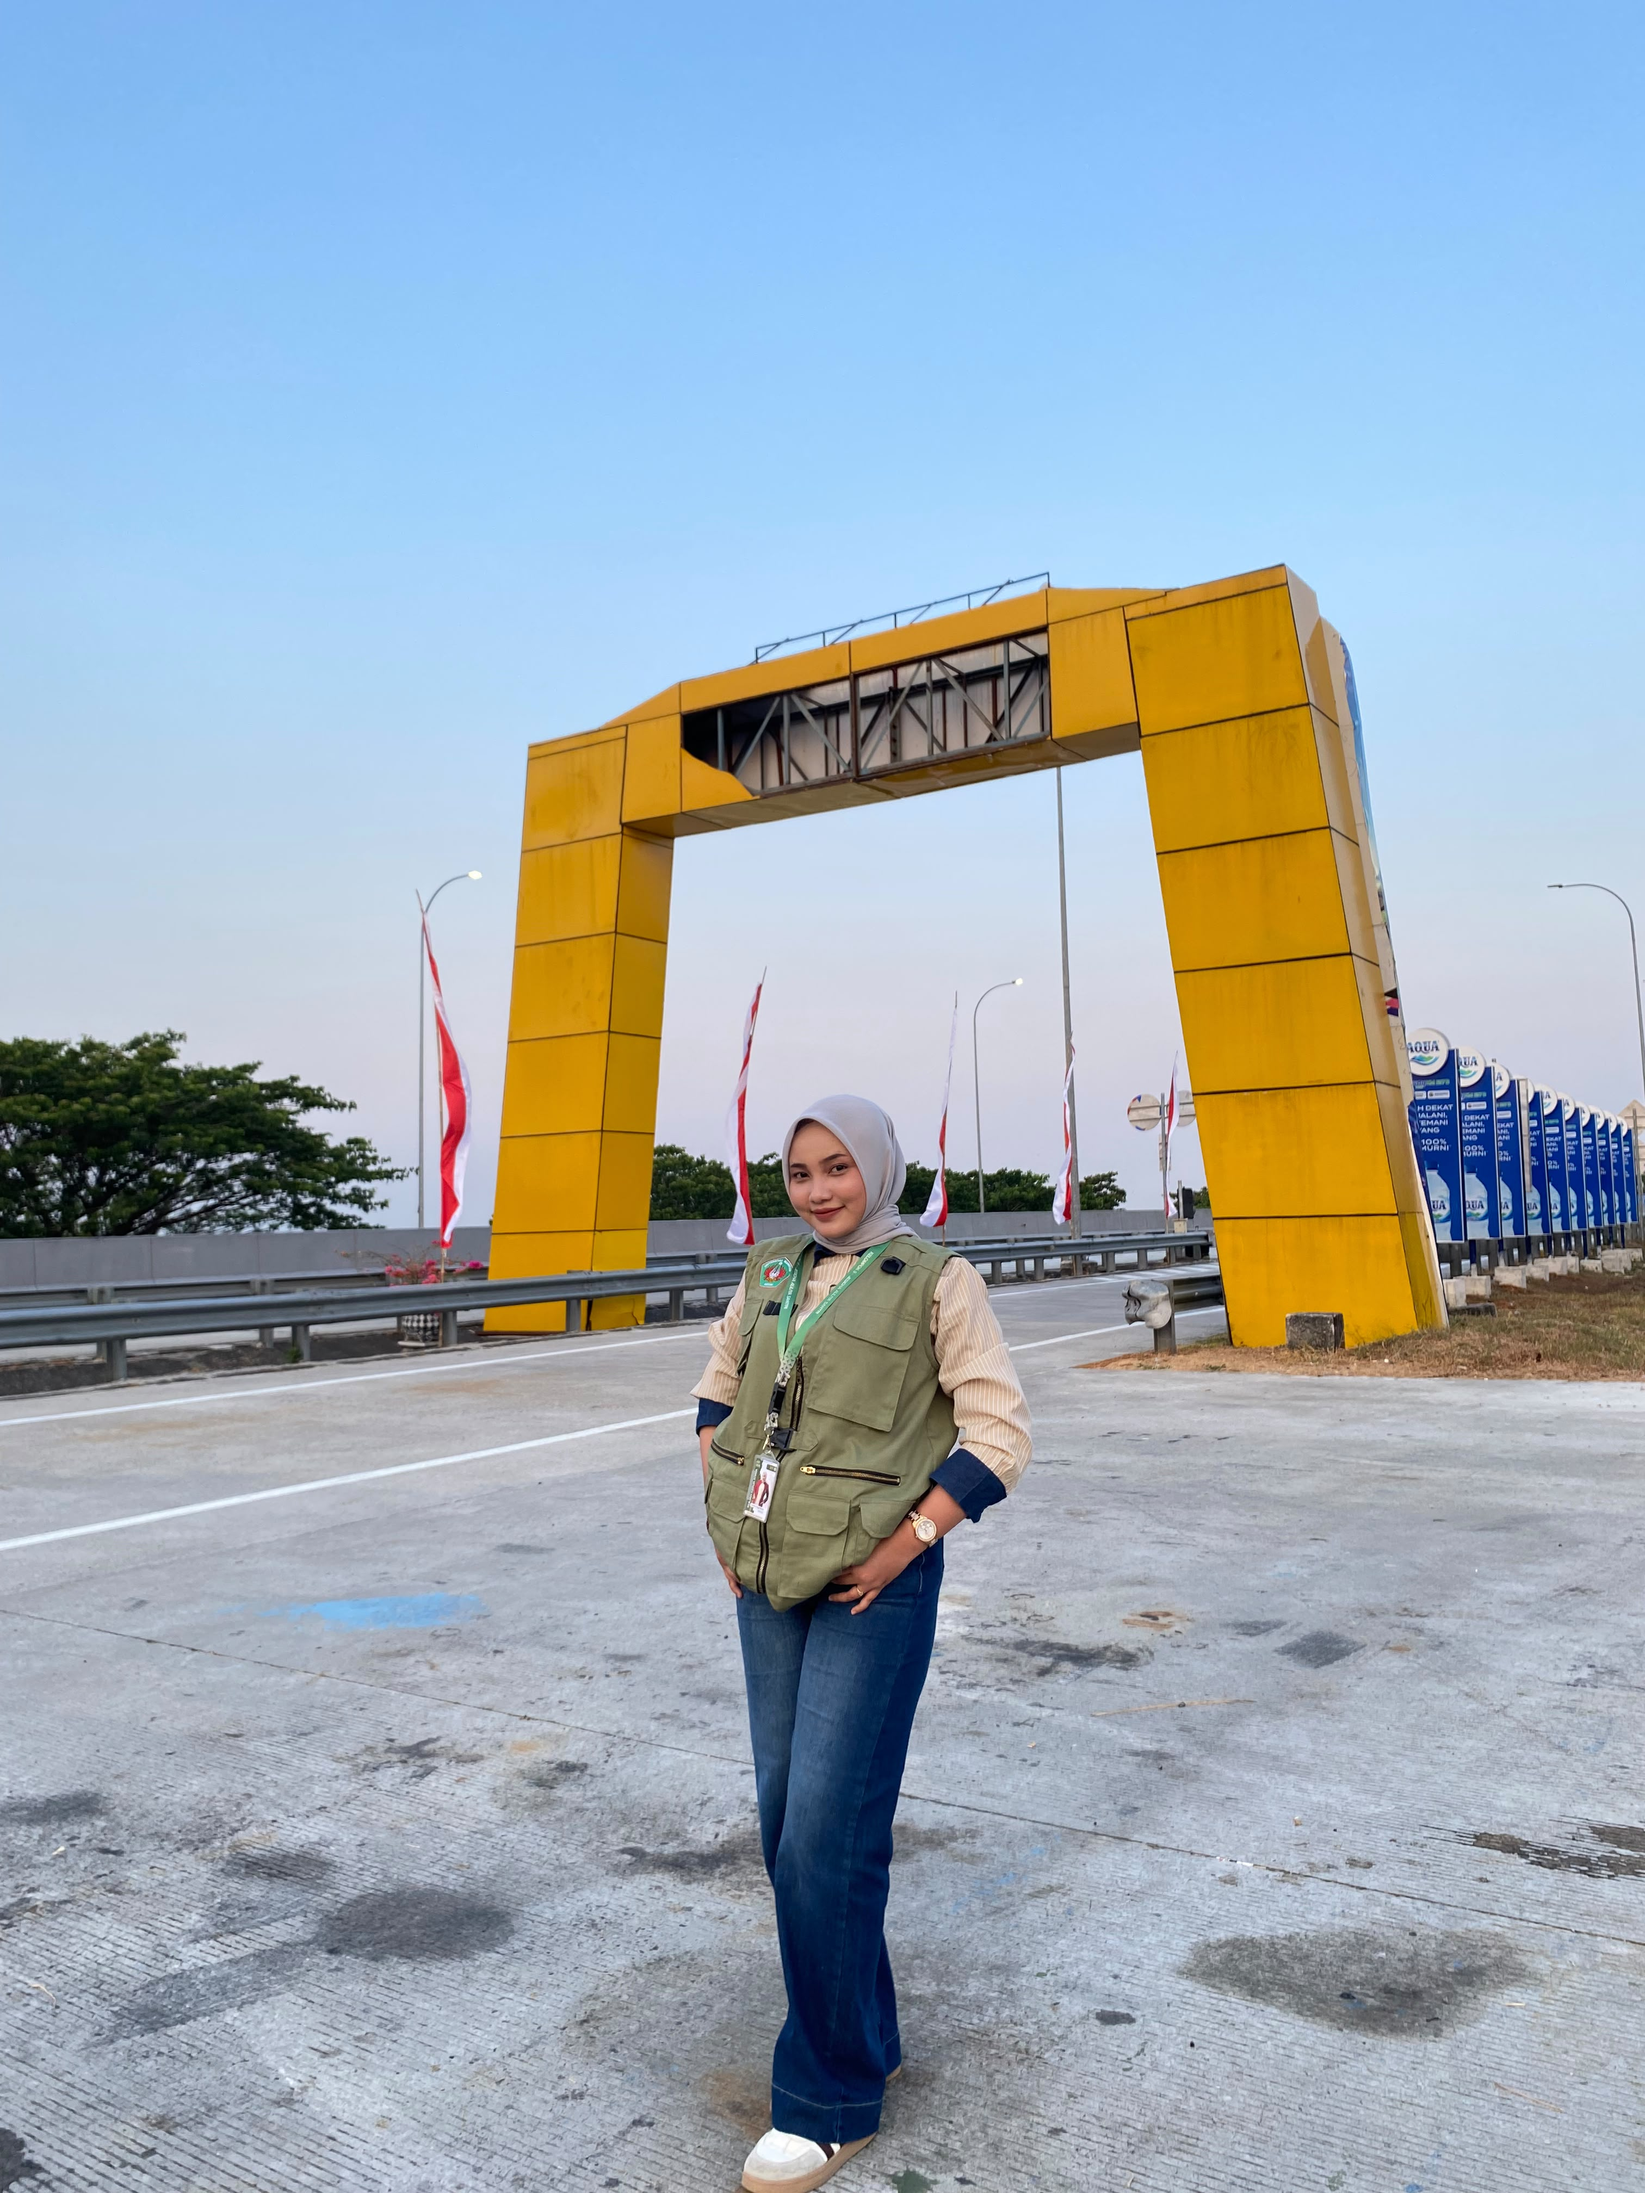
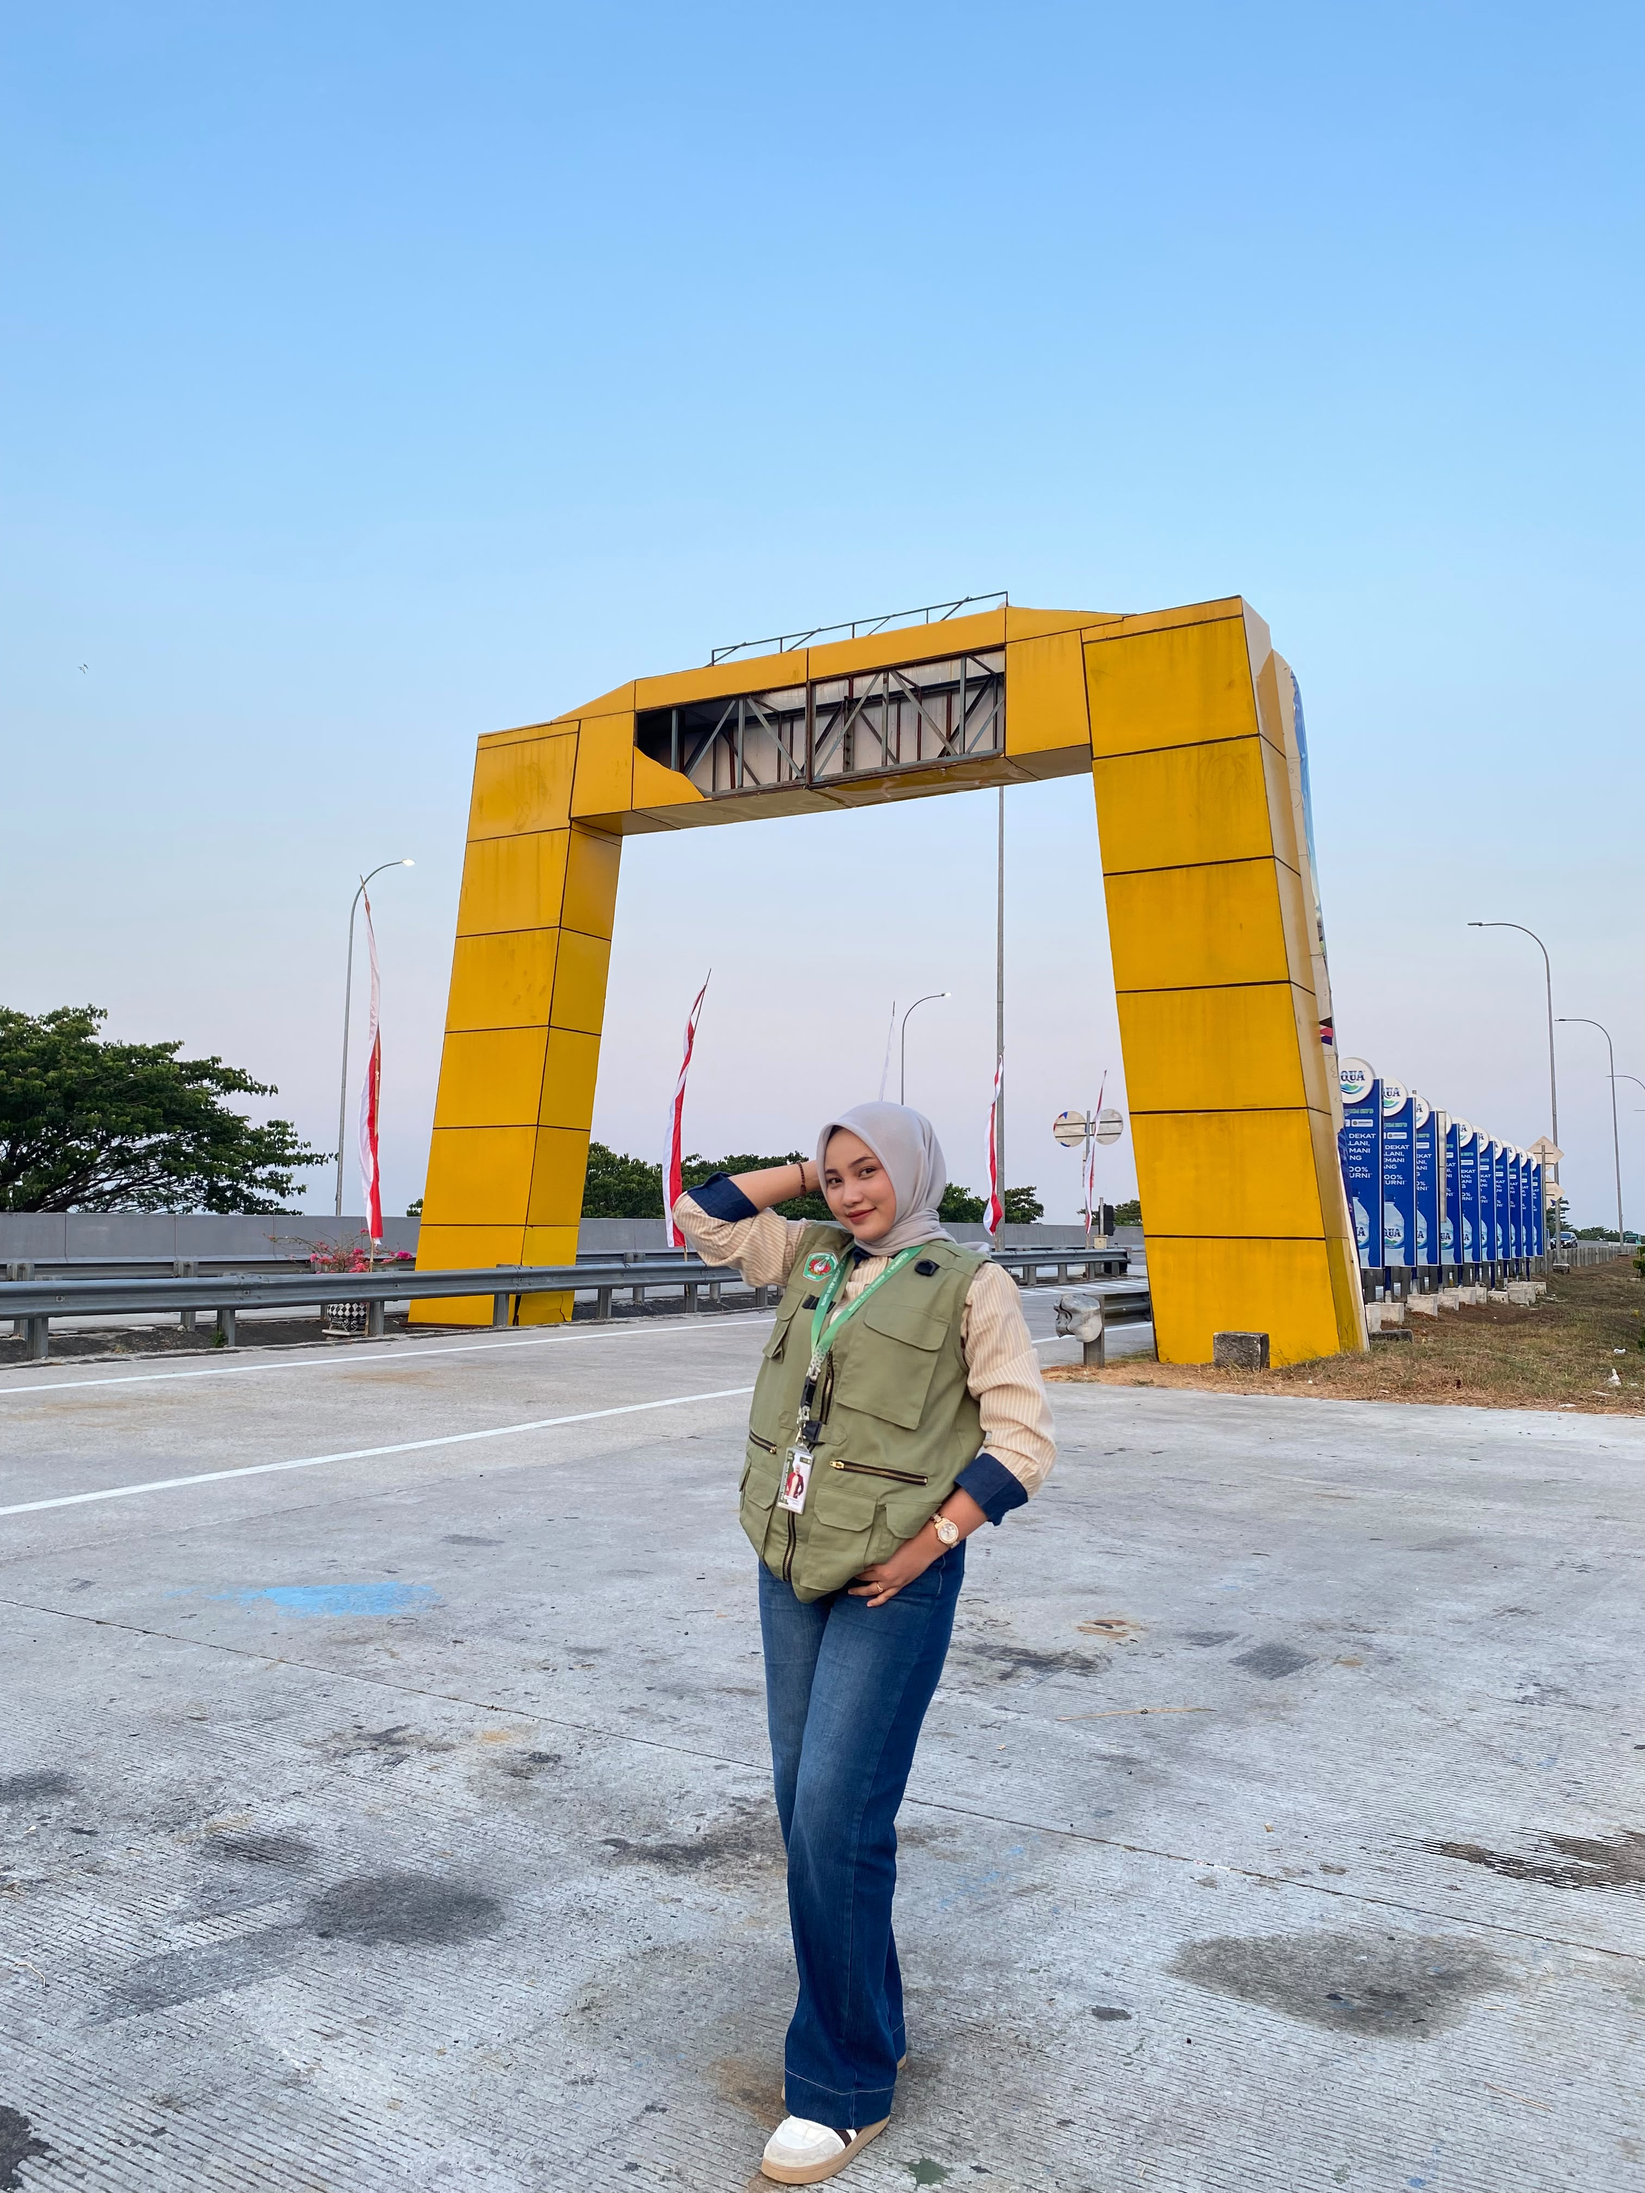
added some motto and updated photo

diff --git a/src/data/members.js b/src/data/members.js
@@ -14,7 +14,7 @@ const memberRecords = [
     id: 0,
     name: 'Ibu Lailatul Fazriyah M.H',
     role: 'Dosen Pembimbing Lapangan',
-    motto: 'Ship thoughtful experiences.',
+    motto: 'Berilmu untuk Mengabdi, Berintegritas untuk Menginspirasi.',
     socials: [
     { label: 'Instagram', href: 'https://www.instagram.com/fazriyah_lailatul/' },
   ],
@@ -58,7 +58,7 @@ const memberRecords = [
     id: 4,
     name: 'Agustin Nur Rohmah',
     role: 'Bendahara',
-    motto: 'Tell stories people remember.',
+    motto: 'Semoga kita selalu puas menikmati porsi milik kita, tanpa iri pada piring orang lain".',
     nim: '20231120304',
     programStudy: 'Akuntansi',
     socials: [
@@ -152,7 +152,7 @@ const memberRecords = [
     id: 12,
     name: 'Fitrotul Istiqomah',
     role: 'Divisi Dokumentasi & Media',
-    motto: 'No pain no gain.',
+    motto: 'love yourself.',
     nim: '20231110763',
     programStudy: 'Manajemen',
     socials: [
